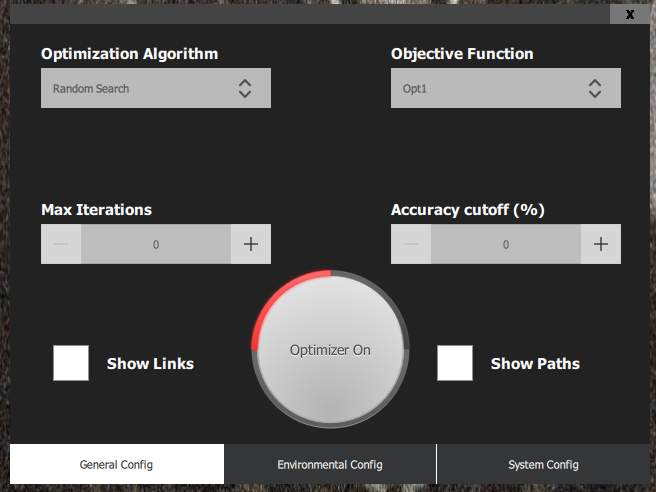
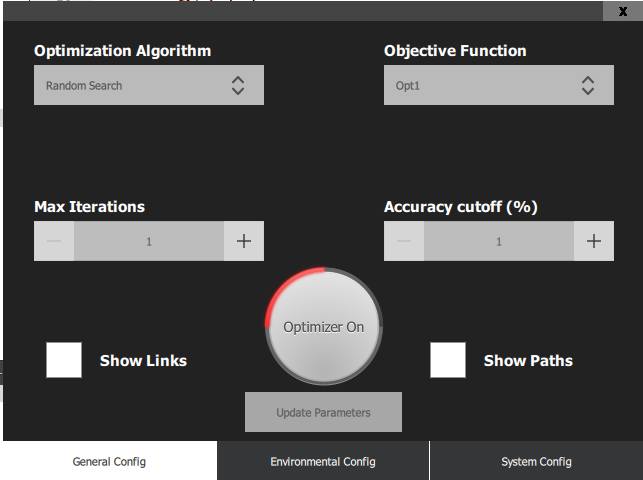
Updated screenshots and Page1 to have an update button
(For user configuration of parameters during runtime)

diff --git a/GUI/Page1.qml b/GUI/Page1.qml
@@ -62,20 +62,30 @@ Page1Form {
 
     ToggleButton {
         id: toggleRunning
-        x: 238
+        x: 252
         y: 266
-        width: 165
-        height: 159
+        width: 138
+        height: 119
         text: qsTr("Optimizer On")
         onClicked: {
                    //  setPkg.generatePackageGeneral(page2.swarmSize.value);
                      //setPkg.generatePackageGraphics(resolutionChoice.textAt(resolutionChoice.currentIndex));
-                     setPkg.generateSettingsDomain(objectiveChoice.currentText, (page2.oneD_button.checked ? 1 : 2), page2.x1_min.value, page2.x1_max.value, page2.x2_min.value,
-                                                   page2.x2_max.value, 1, 0, 0)
+                     //setPkg.generateSettingsDomain(objectiveChoice.currentText, (page2.oneD_button.checked ? 1 : 2), page2.x1_min.value, page2.x1_max.value, page2.x2_min.value,
+                       //                            page2.x2_max.value, 1, 0, 0)
                    }
 
     }
 
+
+    Button {
+        id: updateButton
+        x: 242
+        y: 391
+        width: 157
+        height: 40
+        text: qsTr("Update Parameters")
+        opacity: 0.7
+    }
 
 
 
@@ -236,7 +246,6 @@ SpinBox {
     value: 1
     editable: true
     to: 2147483647
-    value: 1
 }
 
 SpinBox {
@@ -250,7 +259,6 @@ SpinBox {
     value: 1
     editable: true
     to: 100
-    value: 1
 }
 
 Label {
